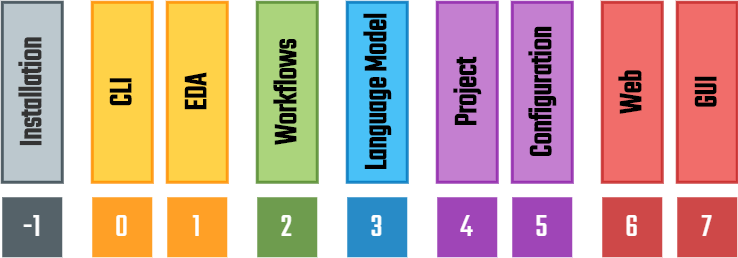
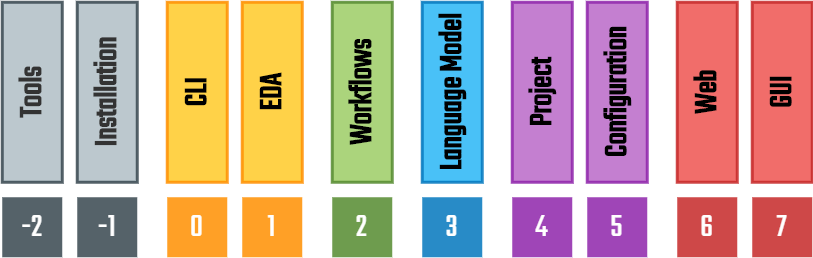
drawio: add layer '-2 | Tools'

diff --git a/ConceptualModel.rst b/ConceptualModel.rst
@@ -15,9 +15,15 @@ Its goal is the interoperability of diverse tools and languages with documented 
 .. figure:: _static/model.png
    :alt: Abstraction layers.
    :align: center
-   :width: 500px
+   :width: 600px
 
    Layers of the EDA² conceptual model.
+
+-2 | Tools
+    Development of (open source) EDA tools.
+    Organisation `github.com/hdl <https://github.com/hdl>`__ contains an *awesome* list of tools: `hdl.github.io/awesome <https://hdl.github.io/awesome>`__.
+    Most EDA tools are developed and managed independently of EDA².
+    However, since the main purpose of EDA² is easing the usage of tools, this layer represents them.
 
 -1 | Installation
     Packaging and distribution of EDA tools.
